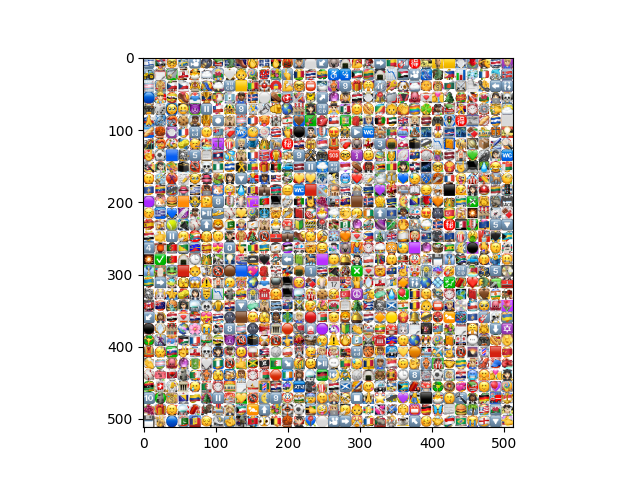
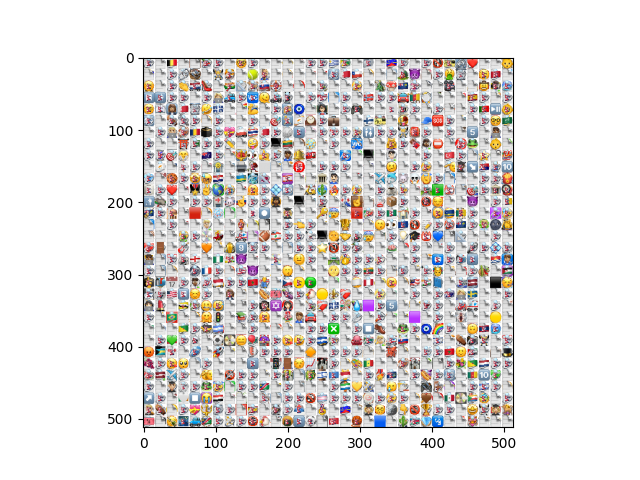
multithread

diff --git a/src/main.py b/src/main.py
@@ -5,23 +5,32 @@ import cv2
 import os
 from tqdm import tqdm
 import math
+from concurrent.futures import ThreadPoolExecutor, as_completed
 
-GEN_SIZE = 25
+GEN_SIZE = 14**2
 img = cv2.cvtColor(cv2.imread(os.path.join("../rainbow.png"), cv2.IMREAD_UNCHANGED), cv2.COLOR_BGR2BGRA)
 
 print("Creating initial agents...")
 generation = []
 for i in tqdm(range(GEN_SIZE)):
-    generation.append(emogent.create_emogent())
+    generation.append(emogent.create_static_emogent())
 
 winners_to_pick = math.floor(math.sqrt(GEN_SIZE))
 
-for epoch in range(10):
+for epoch in range(50):
     print("Scoring agnents...")
 
     scores = {}
-    for emo in tqdm(generation):
+    
+    def add_score(emo):
         scores[emo] = emogent.score_emogent(emo, img)
+
+    with tqdm(total=len(generation)) as pbar:
+        with ThreadPoolExecutor(max_workers=winners_to_pick) as ex:
+            futures = [ex.submit(add_score, emo) for emo in generation]
+            for future in as_completed(futures):
+                result = future.result()
+                pbar.update(1)
 
     winners = sorted(generation, key=lambda x : scores[x])[:winners_to_pick]
 
@@ -38,6 +47,6 @@ for epoch in range(10):
 
     for i in range(len(winners)):
         for j in range(len(winners)):
-            c = emogent.breed_emogents(winners[i], winners[j])
+            c = emogent.breed_emogents(winners[i], winners[j], 0.02)
             generation.append(c)
 

diff --git a/src/emogent.py b/src/emogent.py
@@ -11,8 +11,14 @@ class Emogent():
     def __init__(self, emojis, shape=(512, 512, 4)):
         self.emojis = emojis
         self.shape = shape
+        self.image = None
+        self.cached_image = False
 
     def get_image(self):
+
+        if self.cached_image:
+            return self.image
+
         index = 0
         image = np.zeros(self.shape)
         h, w, c = self.shape
@@ -22,7 +28,11 @@ class Emogent():
                 th, tw, tc = chunk.shape
                 image[y:y+EMOJI_SIZE, x:x+EMOJI_SIZE, :] = emojis.get_emoji_np(self.emojis[index], size=(EMOJI_SIZE, EMOJI_SIZE))[:th, :tw, :tc]
                 index += 1
-        return image / 255
+        
+        self.cached_image = True
+        self.image = image / 255
+
+        return self.image
 
     def show(self):
         plt.imshow(self.get_image())
